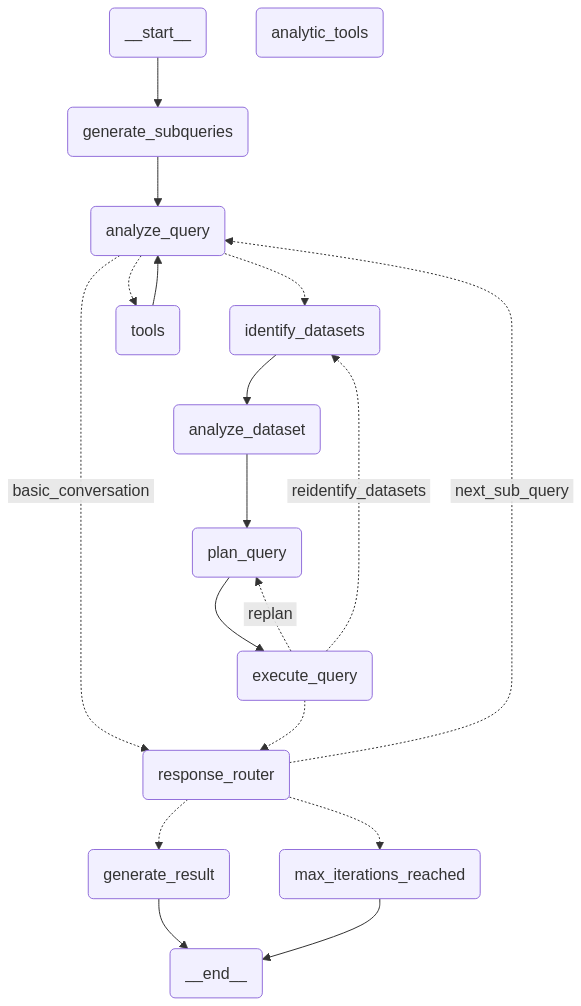
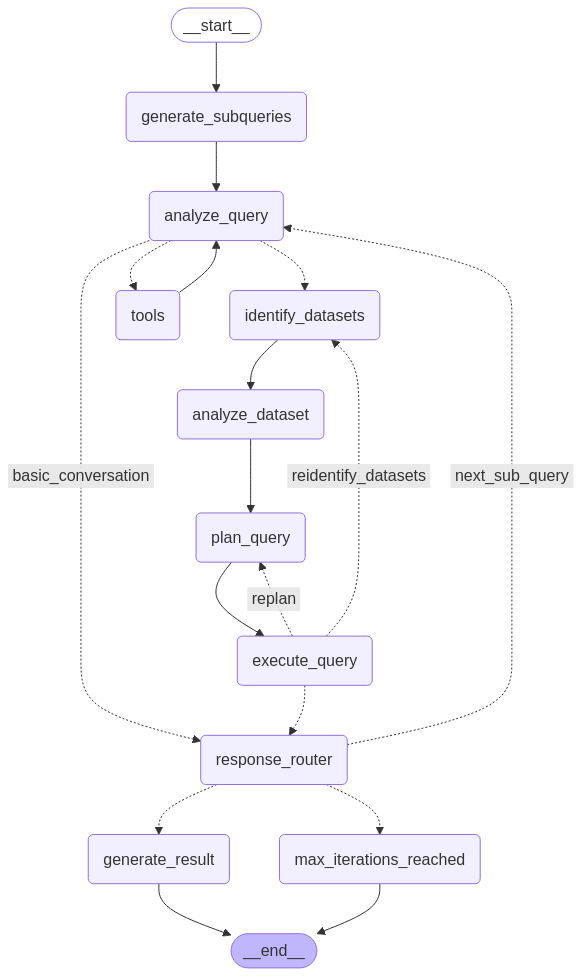
refine structure for schema

diff --git a/src/lib/graph/response/generate_result.py b/src/lib/graph/response/generate_result.py
@@ -120,45 +120,62 @@ def _handle_data_query(state: State, query_result: QueryResult) -> Dict[str, Lis
                 )
 
     if not results and not tool_used_results:
-        return _handle_empty_results()
+        return _handle_empty_results(user_query, errors)
 
     prompt = f"""
     Context:
-    - Originial User Query: "{user_query}"
+    - Original User Query: "{user_query}"
     - SQL Queries with Explanations:
       {"\n\n".join(sql_with_explanations) if sql_with_explanations else "No SQL queries were executed."}
     - Results: {json.dumps(results, indent=2)}
     - Tool Results: {json.dumps(tool_used_results, indent=2) if tool_used_results else "No additional context available."}
     - Errors encountered: {json.dumps(errors, indent=2) if errors else "No errors encountered."}
 
-    - Analyze the SQL query explanation and it's results to answer the user query effectively.
-
     Instructions:
-        1. Provide direct, concise answers based on the available data, but don't mention like i got from the SQL query result. You should directly answer the original user query.
-        2. Present key insights first
-        3. Format numbers properly (1,000,000, ₹, etc.)
-        4. Include trends and patterns for financial/statistical data
-        5. Use clear comparative language
-        6. Only use facts from query results
-        7. If there were errors in some parts of the query, acknowledge them briefly but focus on the data that was successfully retrieved
-        8. Be transparent about limitations caused by errors without being negative
+        1. You are answering: "{user_query}"
+        2. Provide direct, concise answers based on the available data, but don't mention that you got information from SQL query results. You should directly answer the original user query.
+        3. Present key insights first
+        4. Format numbers properly (1,000,000, ₹, etc.)
+        5. Include trends and patterns for financial/statistical data
+        6. Use clear comparative language
+        7. Only use facts from query results
+        8. If there were errors in some parts of the query, acknowledge them briefly but focus on the data that was successfully retrieved
+        9. Be transparent about limitations caused by errors without being negative
+        10. If the data seems insufficient to fully answer the query, clearly state what aspects you can answer and what remains unclear
     """
 
     return {"messages": [AIMessage(content=str(lc.llm.invoke(prompt).content))]}
 
 
-def _handle_empty_results() -> Dict[str, List[Any]]:
-    """Handle empty query results"""
-    return {
-        "messages": [
-            AIMessage(
-                content=(
-                    "I analyzed your query but couldn't find matching data. This could be because:\n"
-                    "- The data isn't in our current datasets\n"
-                    "- The query needs rephrasing\n"
-                    "- Specific filters might be excluding all results\n\n"
-                    "Could you try rephrasing your question or asking about a different aspect?"
+def _handle_empty_results(
+    user_query: str = "", errors: Any = None
+) -> Dict[str, List[Any]]:
+    """Handle empty query results with a more personalized response"""
+    prompt = f"""
+    The user asked: "{user_query}"
+
+    I need to inform them that I couldn't find any matching data in a helpful way.
+
+    Instructions:
+    1. Be empathetic but professional
+    2. Specifically mention their query topic
+    3. Suggest 2-3 possible alternative approaches or related questions they might try
+    4. If there were errors, briefly acknowledge them without technical details
+    """
+
+    if not user_query:
+        return {
+            "messages": [
+                AIMessage(
+                    content=(
+                        "I analyzed your query but couldn't find matching data. This could be because:\n"
+                        "- The data isn't in our current datasets\n"
+                        "- The query needs rephrasing\n"
+                        "- Specific filters might be excluding all results\n\n"
+                        "Could you try rephrasing your question or asking about a different aspect?"
+                    )
                 )
-            )
-        ]
-    }
+            ]
+        }
+
+    return {"messages": [AIMessage(content=str(lc.llm.invoke(prompt).content))]}

diff --git a/src/utils/qdrant/csv_processing.py b/src/utils/qdrant/csv_processing.py
@@ -1,14 +1,16 @@
 import os
-from typing import Dict, List, Tuple
+from typing import List, Tuple
 from uuid import uuid4
 
 import pandas as pd
 from langchain_core.documents import Document
 
+from src.lib.graph.types import ColumnSchema, DatasetSchema
+
 DATA_DIR = "./data"
 
 
-def extract_csv_metadata(file_path: str) -> Dict:
+def extract_csv_metadata(file_path: str) -> DatasetSchema:
     """Extract metadata from a CSV file."""
     try:
         df = pd.read_csv(file_path)
@@ -18,19 +20,24 @@ def extract_csv_metadata(file_path: str) -> Dict:
         row_count = len(df)
         column_count = len(df.columns)
 
-        columns_info = []
+        columns_info: List[ColumnSchema] = []
+
         for column in df.columns:
             data_type = str(df[column].dtype)
-            sample_values = df[column].dropna().head(3).tolist()
-            column_info = {
+            sample_values = df[column].dropna().drop_duplicates().head(10).tolist()
+            non_null_count = int(df[column].count())
+
+            column_info: ColumnSchema = {
                 "name": column,
+                "description": "",
                 "type": data_type,
                 "sample_values": sample_values,
+                "non_null_count": non_null_count,
             }
             columns_info.append(column_info)
 
         return {
-            "file_name": file_name,
+            "name": file_name,
             "file_path": file_path,
             "file_size_mb": round(file_size, 2),
             "row_count": row_count,
@@ -40,21 +47,24 @@ def extract_csv_metadata(file_path: str) -> Dict:
     except Exception as e:
         print(f"Error extracting metadata from {file_path}: {e}")
         return {
-            "file_name": os.path.basename(file_path),
+            "name": os.path.basename(file_path),
             "file_path": file_path,
-            "error": str(e),
+            "file_size_mb": 0.0,
+            "row_count": 0,
+            "column_count": 0,
+            "columns": [],
         }
 
 
-def csv_metadata_to_document(metadata: Dict) -> Document:
+def csv_metadata_to_document(metadata: DatasetSchema) -> Document:
     """Convert CSV metadata to a Document object for vectorization."""
     content_parts = [
-        f"Dataset: {metadata['file_name']}",
-        f"Rows: {metadata.get('row_count', 'Unknown')}",
-        f"Columns: {metadata.get('column_count', 'Unknown')}",
+        f"Dataset: {metadata['name']}",
+        f"Rows: {metadata['row_count']}",
+        f"Columns: {metadata['column_count']}",
     ]
 
-    if "columns" in metadata:
+    if "columns" in metadata and metadata["columns"]:
         content_parts.append("Columns:")
         for col in metadata["columns"]:
             sample_values = (
@@ -72,10 +82,10 @@ def csv_metadata_to_document(metadata: Dict) -> Document:
         page_content=page_content,
         metadata={
             "source": metadata["file_path"],
-            "file_name": metadata["file_name"],
-            "file_size_mb": metadata.get("file_size_mb", "Unknown"),
-            "row_count": metadata.get("row_count", "Unknown"),
-            "column_count": metadata.get("column_count", "Unknown"),
+            "file_name": metadata["name"],
+            "file_size_mb": metadata.get("file_size_mb", 0),
+            "row_count": metadata["row_count"],
+            "column_count": metadata["column_count"],
         },
     )
 

diff --git a/src/utils/dataset_info.py b/src/utils/dataset_info.py
@@ -1,12 +1,14 @@
 import os
-from typing import Any, Dict
+from typing import List
 
 import pandas as pd
+
+from src.lib.graph.types import ColumnSchema, DatasetSchema
 
 DATA_DIR = "./data"
 
 
-def get_dataset_preview(dataset_name: str, sample_rows: int = 3) -> Dict[str, Any]:
+def get_dataset_preview(dataset_name: str, sample_rows: int = 3) -> DatasetSchema:
     """
     Get metadata and sample data from a dataset.
     """
@@ -23,20 +25,36 @@ def get_dataset_preview(dataset_name: str, sample_rows: int = 3) -> Dict[str, An
         file_path = os.path.join(DATA_DIR, matching_files[0])
         df = pd.read_csv(file_path)
 
-        metadata = {
+        file_size = os.path.getsize(file_path) / (1024 * 1024)
+        row_count = len(df)
+        column_count = len(df.columns)
+
+        columns_info: List[ColumnSchema] = []
+
+        for column in df.columns:
+            data_type = str(df[column].dtype)
+            sample_values = df[column].dropna().head(sample_rows).tolist()
+            non_null_count = int(df[column].count())
+
+            column_info: ColumnSchema = {
+                "name": column,
+                "description": "",
+                "type": data_type,
+                "sample_values": sample_values,
+                "non_null_count": non_null_count,
+            }
+            columns_info.append(column_info)
+
+        dataset_schema: DatasetSchema = {
             "name": matching_files[0],
-            "total_rows": len(df),
-            "columns": list(df.columns),
-            "column_types": {col: str(df[col].dtype) for col in df.columns},
-            "non_null_counts": {col: int(df[col].count()) for col in df.columns},
-            # removed for testing the analyze dataset node.
-            # "sample_values": {
-            #     col: list(df[col].dropna().unique()[:5]) for col in df.columns
-            # },
+            "file_path": file_path,
+            "file_size_mb": round(file_size, 2),
+            "row_count": row_count,
+            "column_count": column_count,
+            "columns": columns_info,
         }
 
-        sample_data = df.head(sample_rows).to_dict("records")
-        return {"metadata": metadata, "sample_data": sample_data}
+        return dataset_schema
 
     except Exception as e:
         raise ValueError(f"Error getting dataset preview: {str(e)}")

diff --git a/src/lib/graph/types.py b/src/lib/graph/types.py
@@ -1,4 +1,4 @@
-from typing import Annotated, TypedDict
+from typing import Annotated, Any, List, Optional, TypedDict
 
 from langchain_core.messages import AIMessage
 from langgraph.graph.message import add_messages
@@ -37,3 +37,24 @@ class ErrorMessage(AIMessage):
     @classmethod
     def from_text(cls, text: str) -> "ErrorMessage":
         return cls(content=text)
+
+
+class ColumnSchema(TypedDict):
+    """Schema information for a dataset column"""
+
+    name: str
+    description: str
+    type: str
+    sample_values: List[Any]
+    non_null_count: Optional[int]
+
+
+class DatasetSchema(TypedDict):
+    """Comprehensive schema information for a dataset"""
+
+    name: str
+    file_path: str
+    file_size_mb: float
+    row_count: int
+    column_count: int
+    columns: List[ColumnSchema]

diff --git a/src/lib/graph/__init__.py b/src/lib/graph/__init__.py
@@ -23,7 +23,6 @@ graph_builder.add_node("generate_result", generate_result)
 graph_builder.add_node("max_iterations_reached", max_iterations_reached)
 graph_builder.add_node("analyze_dataset", analyze_dataset)
 graph_builder.add_node("tools", ToolNode(tools=list(TOOLS.values())))
-graph_builder.add_node("analytic_tools", ToolNode(tools=list(TOOLS.values())))
 graph_builder.add_node("response_router", lambda x: x)
 
 graph_builder.add_conditional_edges(
@@ -55,6 +54,8 @@ graph_builder.add_conditional_edges(
         "max_iterations_reached": "max_iterations_reached",
     },
 )
+
+# graph_builder.add_node("analytic_tools", ToolNode(tools=list(TOOLS.values())))
 
 # graph_builder.add_conditional_edges(
 #     "analyze_dataset",

diff --git a/src/lib/graph/identify_datasets.py b/src/lib/graph/identify_datasets.py
@@ -103,6 +103,8 @@ def identify_datasets(state: State):
         query_result.subqueries[query_index].tables_used = selected_datasets
         column_assumptions = parsed_content.get("column_requirements", [])
 
+        print(json.dumps(datasets_info, indent=2))
+
         dataset_info = {
             "column_assumptions": column_assumptions,
             "schema": datasets_info,

diff --git a/src/utils/correct_column_values.py b/src/utils/correct_column_values.py
@@ -4,7 +4,7 @@ from typing import Any, Dict, List
 import pandas as pd
 
 DATA_DIRECTORY = "./data"
-DEFAULT_MAX_DISTANCE = 2
+DEFAULT_MAX_DISTANCE = 10
 MAX_UNIQUE_VALUES_TO_RETURN = 20
 
 

diff --git a/src/utils/col_desc_generator.py b/src/utils/col_desc_generator.py
@@ -1,0 +1,2 @@
+def generate_description(schema, table_name):
+    pass
